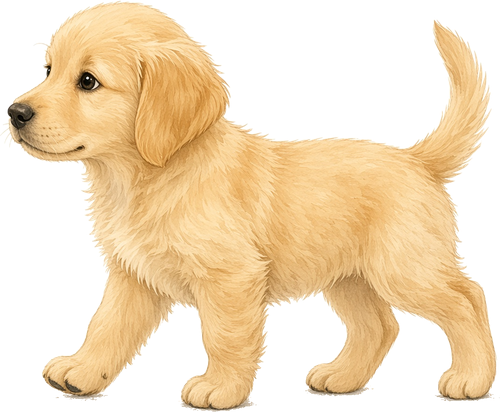
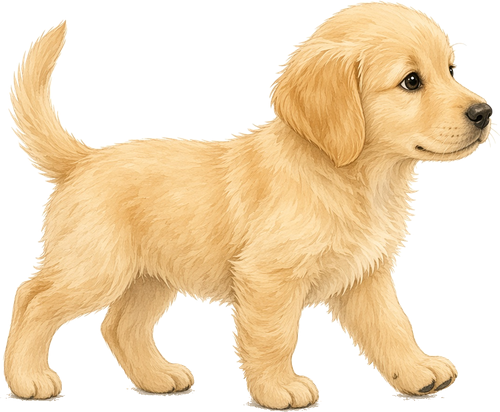
Games QA: fit small games on landscape phones, fix match-pet walk direction, compact comic page on short screens

diff --git a/games/match-object/index.html b/games/match-object/index.html
@@ -38,6 +38,7 @@ button.ctl{font:inherit;font-size:clamp(18px,4.4vw,26px);font-weight:800;border:
 .c{position:fixed;top:-20px;width:14px;height:20px;border-radius:4px;animation:fall linear forwards}
 @keyframes fall{to{transform:translateY(110vh) rotate(720deg)}}
 @media (min-width:700px){body{padding:8px 0}#page{width:min(97vw,150vh);padding:4px 0 4px;border-width:5px}h1{font-size:min(4vh,36px)}#sub{font-size:min(2.4vh,17px);margin:0 0 2px}#foot{display:none}}
+@media (min-width:700px) and (max-height:519px){body{padding:3px 0}#page{width:min(98vw,210vh);padding:0 0 2px;border-width:3px;border-radius:22px}h1{font-size:20px}#page>div:first-child{padding:2px 22px 0!important}#page>div:first-child span[style*=margin-top]{margin-top:0!important}#sub{font-size:12px;margin:0 0 1px}.short .blk .lab{position:absolute;top:50%;transform:translateY(-50%);margin:0!important;font-size:12px!important;line-height:1}.short .blk[data-kind=pet] .lab{right:100%;padding-right:8px}.short .blk[data-kind=home] .lab{left:100%;padding-left:8px}}
 .na .blk,.na .node,.na .band{transition:none!important}
 </style></head><body>
 <div id="page"><div style="display:grid;grid-template-columns:44px 1fr 44px;align-items:center;padding:8px 22px 0"><span></span><h1>Match the object</h1><span style="justify-self:end;margin-top:14px"><span data-tc-slot style="--tcs-size:40px;--tcs-radius:50%;--tcs-bg:#fff;--tcs-bg-hover:#fbe3ec;--tcs-color:#c84678;--tcs-border:3px solid #f4c8d8;--tcs-shadow:none;--tcs-icon:20px"></span></span></div><div id="sub">Draw a line to join each object to its partner.</div>
@@ -59,8 +60,8 @@ const stage=document.getElementById("stage"),svg=document.getElementById("svg");
 let voice=null;function pv(){const v=speechSynthesis.getVoices();voice=v.find(x=>/^en-(GB|US)/.test(x.lang))||v.find(x=>/^en/.test(x.lang))||null}
 if("speechSynthesis"in window){pv();speechSynthesis.onvoiceschanged=pv}
 function say(t){if(!("speechSynthesis"in window))return;speechSynthesis.cancel();const u=new SpeechSynthesisUtterance(t);u.lang="en-GB";if(voice)u.voice=voice;u.rate=.85;speechSynthesis.speak(u)}
-function geo(){const W=stage.clientWidth;if(innerWidth>=700){const top=stage.getBoundingClientRect().top+scrollY,ft=document.getElementById("foot").offsetHeight+22;const H=Math.max(300,innerHeight-top-ft);const rh=H/5;
- let T=Math.min(W*.2,(rh-6)/1.2);T=Math.max(40,T);const lab=Math.max(11,Math.min(18,T*.13)),no=Math.min(W*.03,40),nd=Math.max(20,Math.min(34,T*.3)),gap=(W*.9-2*T-2*no)/2,px=W/2-gap/2-no-T;return{W,T,lab,rh,px,hx:W-px-T,pn:px+T+no,hn:W-px-T-no,nd}}
+function geo(){const W=stage.clientWidth;if(innerWidth>=700){const short=innerHeight<520;stage.classList.toggle("short",short);const top=stage.getBoundingClientRect().top+scrollY,ft=short?30:document.getElementById("foot").offsetHeight+22;const H=Math.max(short?200:300,innerHeight-top-ft);const rh=H/5;
+ let T=short?Math.max(34,rh-3):Math.min(W*.2,(rh-6)/1.14);T=Math.max(short?34:40,T);const lab=short?11:Math.max(11,Math.min(18,T*.13)),no=Math.min(W*.03,40),nd=Math.max(20,Math.min(34,T*.3)),gap=(W*.9-2*T-2*no)/2,px=W/2-gap/2-no-T;return{W,T,lab,rh,px,hx:W-px-T,pn:px+T+no,hn:W-px-T-no,nd}}
  const T=Math.min(W*.24,165),lab=Math.min(Math.max(16,W*.045),30),rh=T+lab+Math.min(W*.075,50),m=Math.min(W*.07,60),no=Math.min(W*.065,44),nd=Math.min(Math.max(26,W*.055),36);return{W,T,lab,rh,px:m,hx:W-m-T,pn:m+T+no,hn:W-m-T-no,nd}}
 function mk(kind,id,label,img){const b=document.createElement("div");b.className="blk";b.dataset.kind=kind;b.dataset.id=id;b.innerHTML=`<div class="pic"><img src="${img}" alt="${label}"></div><div class="lab">${label}</div>`;stage.appendChild(b);
  const n=document.createElement("div");n.className="node";n.dataset.kind=kind;n.dataset.id=id;stage.appendChild(n);

diff --git a/games/match-pet/index.html b/games/match-pet/index.html
@@ -37,6 +37,7 @@ button.ctl{font:inherit;font-size:clamp(18px,4.4vw,26px);font-weight:800;border:
 .c{position:fixed;top:-20px;width:14px;height:20px;border-radius:4px;animation:fall linear forwards}
 @keyframes fall{to{transform:translateY(110vh) rotate(720deg)}}
 @media (min-width:700px){body{padding:8px 0}#page{width:min(97vw,150vh);padding:4px 0 4px;border-width:5px}h1{font-size:min(4vh,36px)}#sub{font-size:min(2.4vh,17px);margin:0 0 2px}#foot{display:none}}
+@media (min-width:700px) and (max-height:519px){body{padding:3px 0}#page{width:min(98vw,210vh);padding:0 0 2px;border-width:3px;border-radius:22px}h1{font-size:20px}#page>div:first-child{padding:2px 22px 0!important}#page>div:first-child span[style*=margin-top]{margin-top:0!important}#sub{font-size:12px;margin:0 0 1px}.short .blk .lab{position:absolute;top:50%;transform:translateY(-50%);margin:0!important;font-size:12px!important;line-height:1}.short .blk[data-kind=pet] .lab{right:100%;padding-right:8px}.short .blk[data-kind=home] .lab{left:100%;padding-left:8px}}
 .na .blk,.na .node,.na .band{transition:none!important}
 </style></head><body>
 <div id="page"><div style="display:grid;grid-template-columns:44px 1fr 44px;align-items:center;padding:8px 22px 0"><span></span><h1>Match the pet to its home</h1><span style="justify-self:end;margin-top:14px"><span data-tc-slot style="--tcs-size:40px;--tcs-radius:50%;--tcs-bg:#fff;--tcs-bg-hover:#fbe3ec;--tcs-color:#c84678;--tcs-border:3px solid #f4c8d8;--tcs-shadow:none;--tcs-icon:20px"></span></span></div><div id="sub">Draw a line from each pet to its home.</div>
@@ -58,8 +59,8 @@ const stage=document.getElementById("stage"),svg=document.getElementById("svg");
 let voice=null;function pv(){const v=speechSynthesis.getVoices();voice=v.find(x=>/^en-(GB|US)/.test(x.lang))||v.find(x=>/^en/.test(x.lang))||null}
 if("speechSynthesis"in window){pv();speechSynthesis.onvoiceschanged=pv}
 function say(t){if(!("speechSynthesis"in window))return;speechSynthesis.cancel();const u=new SpeechSynthesisUtterance(t);u.lang="en-GB";if(voice)u.voice=voice;u.rate=.85;speechSynthesis.speak(u)}
-function geo(){const W=stage.clientWidth;if(innerWidth>=700){const top=stage.getBoundingClientRect().top+scrollY,ft=document.getElementById("foot").offsetHeight+22;const H=Math.max(300,innerHeight-top-ft);const rh=H/6;
- let T=Math.min(W*.2,(rh-6)/1.2);T=Math.max(40,T);const lab=Math.max(11,Math.min(18,T*.13)),no=Math.min(W*.03,40),nd=Math.max(20,Math.min(34,T*.3)),gap=(W*.9-2*T-2*no)/2,px=W/2-gap/2-no-T;return{W,T,lab,rh,px,hx:W-px-T,pn:px+T+no,hn:W-px-T-no,nd}}
+function geo(){const W=stage.clientWidth;if(innerWidth>=700){const short=innerHeight<520;stage.classList.toggle("short",short);const top=stage.getBoundingClientRect().top+scrollY,ft=short?30:document.getElementById("foot").offsetHeight+22;const H=Math.max(short?200:300,innerHeight-top-ft);const rh=H/6;
+ let T=short?Math.max(34,rh-3):Math.min(W*.2,(rh-6)/1.14);T=Math.max(short?34:40,T);const lab=short?11:Math.max(11,Math.min(18,T*.13)),no=Math.min(W*.03,40),nd=Math.max(20,Math.min(34,T*.3)),gap=(W*.9-2*T-2*no)/2,px=W/2-gap/2-no-T;return{W,T,lab,rh,px,hx:W-px-T,pn:px+T+no,hn:W-px-T-no,nd}}
  const T=Math.min(W*.24,165),lab=Math.min(Math.max(16,W*.045),30),rh=T+lab+Math.min(W*.075,50),m=Math.min(W*.07,60),no=Math.min(W*.065,44),nd=Math.min(Math.max(26,W*.055),36);return{W,T,lab,rh,px:m,hx:W-m-T,pn:m+T+no,hn:W-m-T-no,nd}}
 function mk(kind,id,label,img){const b=document.createElement("div");b.className="blk";b.dataset.kind=kind;b.dataset.id=id;b.innerHTML=`<div class="pic"><img src="${img}" alt="${label}"></div><div class="lab">${label}</div>`;stage.appendChild(b);
  const n=document.createElement("div");n.className="node";n.dataset.kind=kind;n.dataset.id=id;stage.appendChild(n);

diff --git a/games/match-kit/mk.css b/games/match-kit/mk.css
@@ -105,7 +105,7 @@ body{font-family:"Baloo 2","Nunito","Arial Rounded MT Bold","Trebuchet MS",syste
  #hd h1{font-size:min(4.6vh,38px)}
  #sub{font-size:min(2.7vh,21px)}
  #foot{display:none}
- :root{--ps:12vh;--cs:6.4vh;--qh:30vh;--ow:min(21vh,24vw);--os:min(16vh,18vw)}
+ :root{--ps:14vh;--cs:7.4vh;--qh:36vh;--ow:min(26vh,26vw);--os:min(18vh,18vw)}
 }
 @media (max-width:699px),(max-height:519px){
  :root{--ps:84px;--cs:46px;--qh:170px;--ow:min(39vw,190px);--os:min(26vw,110px)}
@@ -121,3 +121,32 @@ body{font-family:"Baloo 2","Nunito","Arial Rounded MT Bold","Trebuchet MS",syste
 @media (max-width:1230px){html.lw-has body{padding-top:52px}}
 @media(max-width:520px){.qcard .pair.parts{max-width:100%;gap:6px}.qcard .pair.parts>div:not(.arr):not(.qm){flex:1 1 0;min-width:0}.qcard .pair.parts .im{width:100%;height:auto;max-height:var(--qh);aspect-ratio:1.2}.qcard .pair.parts .im .tx{font-size:clamp(13px,4.4vw,20px);overflow-wrap:anywhere}.qcard .pair.parts .lb{font-size:13px}.qcard .pair.parts .arr{font-size:22px}.qcard .pair.parts .qm{font-size:40px}}
 @media (min-width:1231px){html.lw-has #tcs{position:relative;top:14px}}
+
+/* landscape phones (e.g. 844x390): fit the whole game on one screen instead of scrolling; compact header, vh-based sizes */
+@media (min-width:600px) and (max-height:519px){
+ html.lw-has body,body{padding:3px 0 0}
+ #page{width:min(98vw,calc(210vh));height:calc(100vh - 6px);height:calc(100dvh - 6px);padding:2px 12px 4px;border-width:3px;border-radius:22px;gap:2px}
+ #hd{grid-template-columns:auto 1fr 44px;gap:4px}
+ #hd h1{font-size:min(8vh,26px)}
+ #sub{font-size:min(5vh,16px);min-height:0;line-height:1.2}
+ #bar{height:5px}
+ #foot{display:none}
+ #lvs button{min-height:24px;font-size:12px;padding:0 10px}
+ #lvs{padding:1px;border-width:2px}
+ #stage{gap:4px}
+ #cap{min-height:1.1em;font-size:min(5.4vh,18px)}
+ :root{--ps:17vh;--cs:9.5vh;--qh:33vh;--ow:min(26vh,22vw);--os:min(19vh,16vw)}
+ .bins{flex-wrap:nowrap}.bin{flex:1 1 0;height:auto;border-width:3px;padding:4px}
+ .bin .btitle{font-size:min(6vh,18px)}
+ .mem{min-height:0;gap:6px}
+ .qcard{padding:5px;border-width:3px}
+ .qcard .qt{font-size:min(7vh,24px);padding:2px 8px}
+ .qwrap{gap:6px}
+ .opt .im{border-width:3px}
+ .lb{font-size:min(4.6vh,15px);margin-top:1px}
+ .tray{gap:5px;padding:2px 0}
+ #ask .box{padding:10px 16px}#ask .q{font-size:min(7vh,22px);margin-bottom:8px}
+ .btn,#ask button{min-height:38px;font-size:min(6vh,19px);padding:4px 16px}
+}
+/* sort bins show people/scenes: keep the head in frame when the box is wide and short */
+.bin .im:not(.cut):not(.flat) img{object-position:50% 18%}

diff --git a/stories/comic-stories/index.html b/stories/comic-stories/index.html
@@ -23,6 +23,19 @@ select{border-radius:12px}.bar{display:flex;flex-wrap:wrap;gap:8px}
 details{background:var(--card);border:1px solid var(--line);border-radius:16px}summary{padding:12px 16px;font-weight:800;cursor:pointer}
 details div{padding:0 16px 14px;font-size:14px;line-height:1.55}a.home{color:var(--plum);font-weight:800;text-decoration:none}
 .lwp-list{display:flex;flex-wrap:wrap;gap:6px;margin:8px 0}.lwp-list a{position:relative;display:inline-flex;align-items:center;gap:6px;padding:5px 10px;border-radius:12px;background:#fff;color:inherit;text-decoration:none;font-weight:800;font-size:13px;box-shadow:0 1px 4px rgba(0,0,0,.1)}.lwp-list a.on{outline:2px solid currentColor}.lwp-list a .lwp-mk.lwp-mk{position:static;width:18px;min-width:18px;height:18px;box-shadow:none;background:#e6f5f1}.lwp-list a .lwp-ck.lwp-ck{width:5px;height:9px;border-width:0 2px 2px 0}
+/* landscape phones: compact header, picture fits the screen, next-frame choices beside it */
+@media(min-width:600px) and (max-height:519px){
+main{padding:4px 10px;gap:4px;max-width:none}
+header{align-items:center;flex-wrap:nowrap;gap:8px;padding-right:150px}header>div{display:flex;align-items:baseline;gap:10px;flex-wrap:wrap}header .k,header .sub{display:none}header h1{font-size:19px}
+header select{min-height:30px;font-size:13px;padding:0 8px}header label{font-size:12px;display:flex;align-items:center;gap:6px}
+.lwp-list{display:none}
+.bar{gap:6px}.bar .b{min-height:30px;padding:0 12px;font-size:13px}
+.grid{grid-template-columns:minmax(0,1fr) 30%;gap:10px;align-items:start}
+.stage{border-width:3px;border-radius:16px;width:min(100%,calc((100dvh - 130px)*16/9));margin:0 auto}
+.cap{margin-top:6px;padding:5px 12px;font-size:17px;border-radius:12px}
+.side{grid-template-columns:1fr!important;gap:5px;max-height:calc(100dvh - 90px)}
+.opt{border-radius:12px;display:grid;grid-template-columns:44% 1fr;align-items:center}.opt button.img{border-radius:0}.opt p,.q{padding:4px 8px;font-size:12px}.q{font-size:18px}.tag{left:4px;top:4px;font-size:10px;padding:2px 6px}
+}
 </style></head><body><main id="app"></main>
 <script src="../../js/lang.js"></script><script src="../../js/i18n/comic-stories.js"></script><script src="../../js/progress.js"></script><script src="stories.js"></script>
 <script>

diff --git a/games/everyday-english/index.html b/games/everyday-english/index.html
@@ -34,6 +34,17 @@ main.game .choices button img{aspect-ratio:auto;height:min(24vh,28vw);object-fit
 main.game .choices button span{padding:3px;font-size:clamp(13px,2.2vh,17px)}
 main.game .msg{justify-content:center;margin-top:6px;font-size:clamp(14px,2.4vh,20px);min-height:2em}
 main.game .btn{padding:6px 16px;font-size:clamp(14px,2.2vh,18px)}
+/* landscape phones: video left, 3 choices stacked right, so the video is big */
+@media(min-width:600px) and (max-height:519px){
+main.game{display:grid;grid-template-columns:minmax(0,1fr) min(34%,260px);grid-template-rows:auto auto minmax(0,1fr) auto;grid-template-areas:"top top" "h2 h2" "stage choices" "msg msg";column-gap:12px;padding:4px 12px;max-width:none}
+main.game>.top{grid-area:top;padding:0;margin:0}main.game>h2{grid-area:h2;margin:0 0 4px;font-size:16px}
+main.game .stage{grid-area:stage;width:auto;max-width:100%;max-height:100%;min-width:0;margin:0;justify-self:center;align-self:center;height:100%;aspect-ratio:848/480}
+main.game .choices{grid-area:choices;width:100%;margin:0;display:grid;grid-template-columns:1fr;grid-template-rows:repeat(3,minmax(0,1fr));gap:6px}
+main.game .choices button{display:flex;align-items:center;gap:8px;min-height:0;text-align:left;padding:0 8px 0 0;border-radius:12px}
+main.game .choices button img{height:100%;width:auto;aspect-ratio:1;flex:none;max-height:none}
+main.game .choices button span{padding:0;font-size:15px}
+main.game .msg{grid-area:msg;margin-top:2px;min-height:34px;font-size:15px}
+}
 @media(max-width:520px){html.lw-has .top{padding-top:44px}}
 @media(min-width:521px){html.lw-has .top{padding-top:0}}
 </style></head><body><main id="app"></main>

diff --git a/games/what-should-max-wear/index.html b/games/what-should-max-wear/index.html
@@ -47,6 +47,12 @@ h1{font-size:clamp(20px,3.2vw,32px);margin:0;color:#3b5bab}
 /* keep header controls clear of the shared language toggle */
 @media(min-width:521px){html.lw-has header{padding-right:164px}}
 @media(max-width:520px){html.lw-has header{padding-top:46px}}
+/* landscape phones: video on the left, the three outfit cards on the right, all on one screen */
+@media(min-width:600px) and (max-height:519px){html.lw-has header,header{max-width:none;padding:4px 150px 0 12px}h1{font-size:20px}.dots span{width:16px;height:16px;border-width:2px}
+#q{font-size:20px;margin:0 0 4px;min-height:1.2em}
+.wrap{width:calc(100vw - 24px);min-width:0;display:grid;grid-template-columns:minmax(0,1.5fr) minmax(0,1fr);gap:12px;align-items:center}#stage{border-width:4px;border-radius:16px}
+.cards{margin:0;gap:6px}.card{padding:4px;border-width:4px;font-size:12px;border-radius:14px}.card img{height:min(34vh,150px)}
+.teach{display:none}#next{font-size:18px}}
 </style></head>
 <body>
 <header><h1>What should Max wear?</h1><div style="display:flex;align-items:center;gap:14px"><div class="dots" id="dots"><span></span><span></span><span></span></div><span data-tc-slot style="--tcs-size:38px;--tcs-radius:50%;--tcs-bg:#fff;--tcs-bg-hover:#ffd34d;--tcs-color:#3b5bab;--tcs-border:3px solid #b9c7e6;--tcs-shadow:none;--tcs-icon:20px"></span></div></header>
